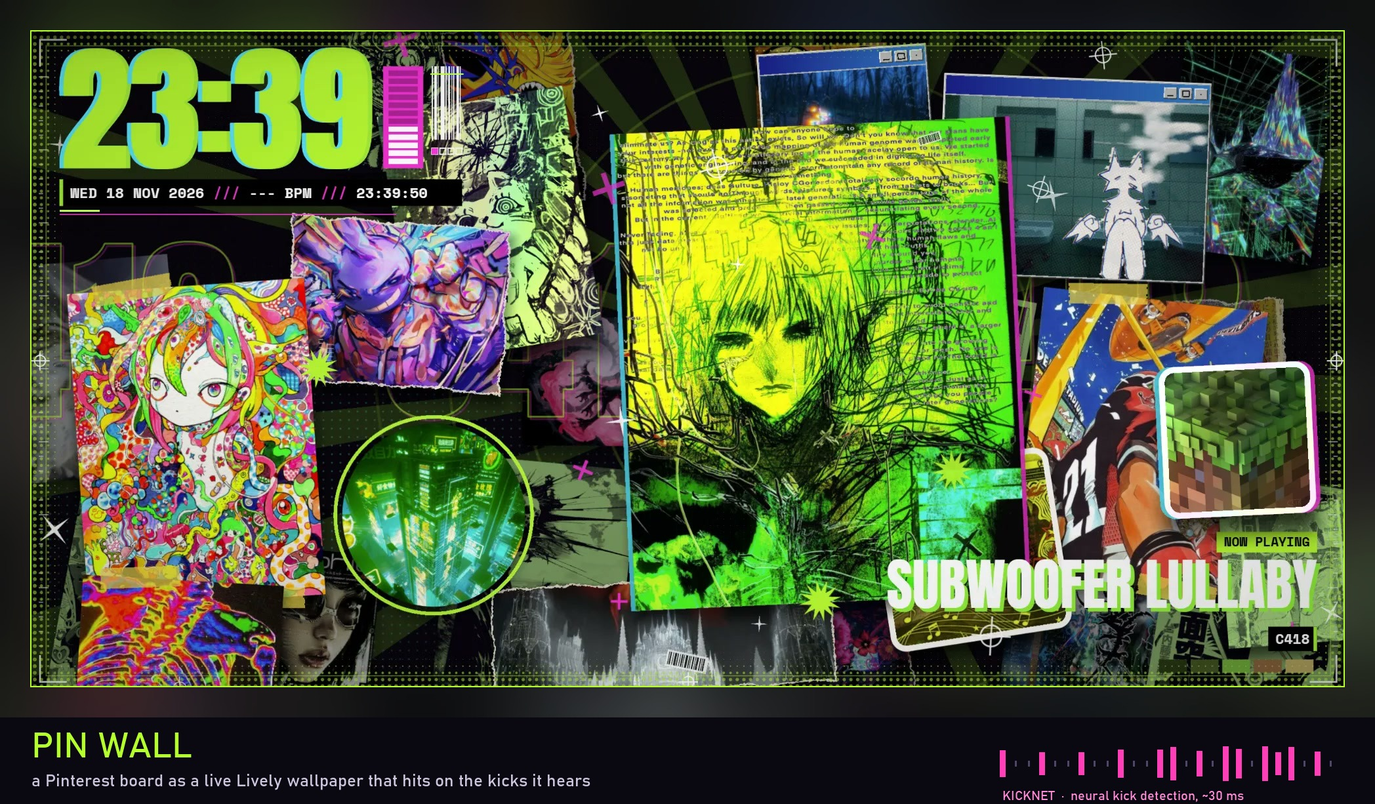
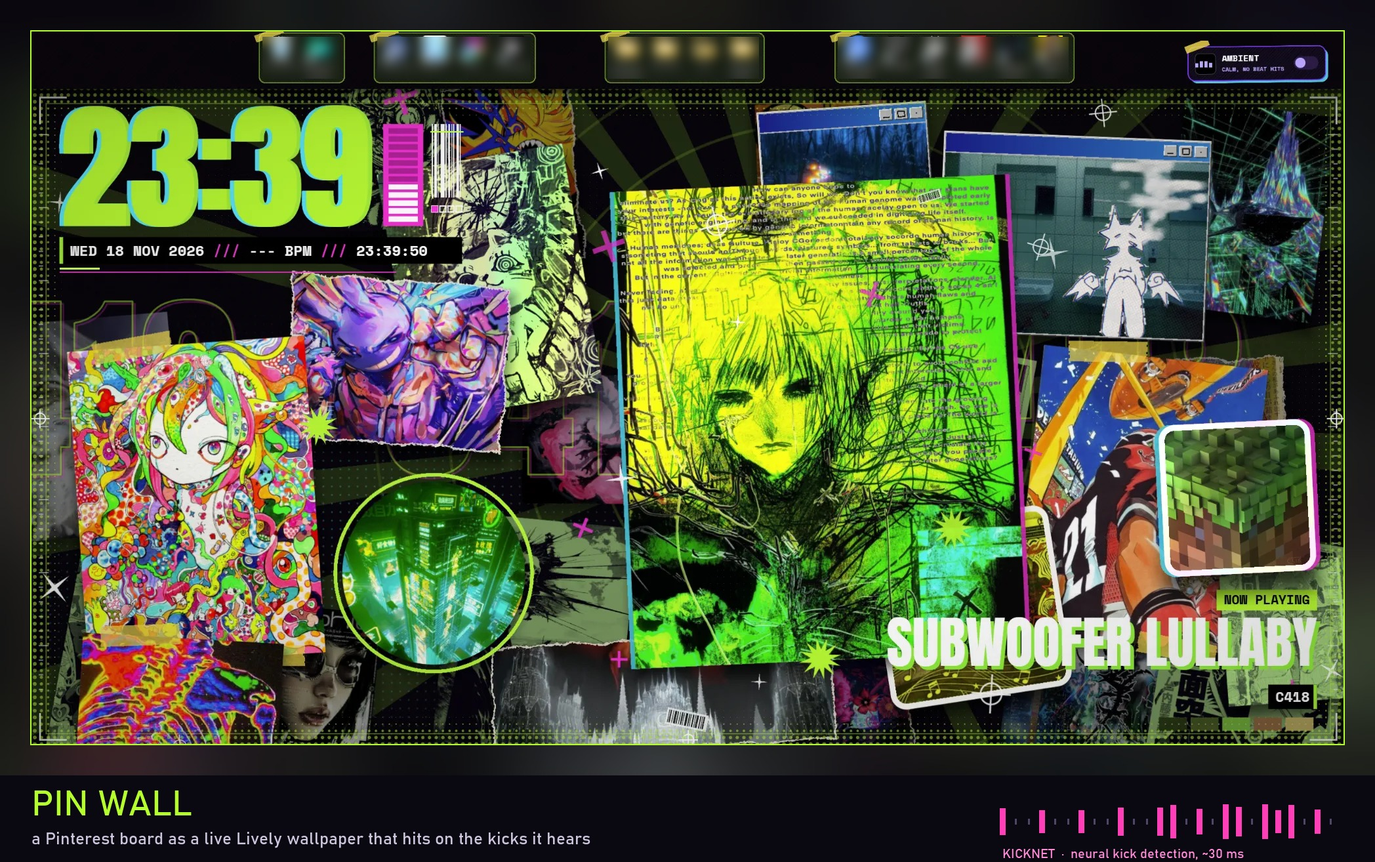
Demo: keep the top band (mode toggle), sharp WebP loop, still first
The clip and stills keep the icon shelf so the Reactive/Ambient toggle shows
(the desktop icons in the plates are blurred) and only cut the taskbar. The
README opens with the showcase still, then a 6 s animated WebP loop (full
colour, 1000 px) in place of the muddy 96-colour GIF.

diff --git a/tools/make_demo.py b/tools/make_demo.py
@@ -10,7 +10,7 @@
 3. The wall (icon shelf band and taskbar cropped off) is scaled to 1920 x 960 and a 1920 x 120 strip is drawn
    under it: the sound's waveform scrolling past a playhead, KickNet's kicks (taller = more sure), and the
    old loudness trigger's hits (red where it fired on no kick).
-4. Writes the mp4 (H.264 + AAC) and, with --gif, an 8 s looping preview for the README.
+4. Writes the mp4 (H.264 + AAC) and, with --loop, a 6 s animated WebP loop for the README.
 """
 import argparse
 import json
@@ -23,8 +23,33 @@ import numpy as np
 ROOT = os.path.dirname(os.path.dirname(os.path.abspath(__file__)))
 sys.path.insert(0, ROOT)
 sys.path.append(os.path.join(ROOT, "listener"))   # after ROOT: listener/kicknet.py must not shadow the kicknet package
-W, H_WALL, H_STRIP, FPS = 1920, 960, 120, 30
-CROP = (0, 112, 2560, 1280)          # x, y, w, h on the 2560 x 1440 capture: below the icon shelf, above the taskbar
+W, H_WALL, H_STRIP, FPS = 1920, 1044, 120, 30
+CROP = (0, 112, 2560, 1280)          # the collage only (below the icon shelf, above the taskbar): used for sync
+# what the clip shows: everything but the taskbar. The icon shelf stays because its Reactive/Ambient toggle
+# (top right) shows the mode switching (the user: "the top is important"); the desktop icons inside the
+# shelf's plates are blurred (shelf.json plate boxes), the toggle stays sharp. --icons shows them as they are.
+SHOW = (0, 0, 2560, 1392)
+
+
+def icon_blur(icons_visible):
+    """ffmpeg filter (on the 2560 x 1440 capture) that blurs the inside of each icon plate."""
+    if icons_visible:
+        return "null"
+    sh = json.load(open(os.path.join(ROOT, "wallpaper", "shelf.json"), encoding="utf-8")).get("2560x1440", {})
+    y0, y1 = sh.get("plateY", [3, 100])
+    plates = sh.get("plates", [])
+    if not plates:
+        return "null"
+    n = len(plates)
+    f = f"split={n + 1}" + "".join(f"[s{i}]" for i in range(n + 1)) + ";"
+    for i, (x0, x1) in enumerate(plates):
+        ins = 8
+        f += f"[s{i + 1}]crop={x1 - x0 - 2 * ins}:{y1 - y0 - 2 * ins}:{x0 + ins}:{y0 + ins},boxblur=14:3[b{i}];"
+    cur = "s0"
+    for i, (x0, x1) in enumerate(plates):
+        f += f"[{cur}][b{i}]overlay={x0 + 8}:{y0 + 8}[o{i}];"
+        cur = f"o{i}"
+    return f[:-len(f"[o{n - 1}];")]   # the last overlay's output becomes the chain's output
 
 
 def kicks_and_old(mono, sr):
@@ -136,7 +161,8 @@ def main():
     ap.add_argument("--raw", default=os.path.join(ROOT, "demo", "raw"))
     ap.add_argument("--out", default=os.path.join(ROOT, "demo", "pinwall-demo.mp4"))
     ap.add_argument("--skip", type=float, default=0.6, help="seconds trimmed off the start")
-    ap.add_argument("--gif", action="store_true")
+    ap.add_argument("--gif", "--loop", dest="gif", action="store_true", help="also write a 6 s animated WebP loop")
+    ap.add_argument("--icons", action="store_true", help="show the desktop icons in the shelf (blurred by default)")
     a = ap.parse_args()
     import soundfile as sf
     audio, sr = sf.read(os.path.join(a.raw, "audio.wav"), dtype="float32", always_2d=True)
@@ -162,7 +188,8 @@ def main():
     a_in = ["-i", aligned]
     cmd = (["ffmpeg", "-v", "error", "-y", "-ss", f"{a.skip:.3f}", "-i", video,
             "-f", "rawvideo", "-pix_fmt", "rgb24", "-s", f"{W}x{H_STRIP}", "-r", str(FPS), "-i", "-"] + a_in +
-           ["-filter_complex", f"[0:v]crop={w}:{h}:{x}:{y},scale={W}:{H_WALL}:flags=lanczos,fps={FPS}[wall];[wall][1:v]vstack[v];"
+           ["-filter_complex", f"[0:v]{icon_blur(a.icons)}[cl];[cl]crop={SHOW[2]}:{SHOW[3]}:{SHOW[0]}:{SHOW[1]},"
+            f"scale={W}:{H_WALL}:flags=lanczos,fps={FPS}[wall];[wall][1:v]vstack[v];"
             "[2:a]anull[a]",
             "-map", "[v]", "-map", "[a]", "-t", f"{dur:.3f}", "-c:v", "libx264", "-preset", "slow", "-crf", "18",
             "-pix_fmt", "yuv420p", "-c:a", "aac", "-b:a", "192k", "-movflags", "+faststart", a.out])
@@ -173,11 +200,12 @@ def main():
     p.stdin.close(); p.wait()
     print("wrote", a.out)
     if a.gif:
-        gif = os.path.splitext(a.out)[0] + "-preview.gif"
-        # README preview: small enough for GitHub (aim < 8 MB): 6 s, 640 px, 12 fps, 96 colours
-        vf = "fps=12,scale=640:-1:flags=lanczos,split[s0][s1];[s0]palettegen=max_colors=96:stats_mode=diff[p];[s1][p]paletteuse=dither=bayer:bayer_scale=3:diff_mode=rectangle"
-        subprocess.run(["ffmpeg", "-v", "error", "-y", "-ss", "2", "-t", "6", "-i", a.out, "-vf", vf, "-loop", "0", gif], check=True)
-        print("wrote", gif, f"({os.path.getsize(gif) // 1024} KB)")
+        # README loop: an animated WebP (full colour; a GIF's 256-colour palette looked muddy): 6 s, 1000 px,
+        # 15 fps, quality 75 (~8-9 MB; GitHub shows it like a GIF)
+        loop = os.path.splitext(a.out)[0] + "-loop.webp"
+        subprocess.run(["ffmpeg", "-v", "error", "-y", "-ss", "4", "-t", "6", "-i", a.out, "-vf", "fps=15,scale=1000:-1:flags=lanczos",
+                        "-c:v", "libwebp_anim", "-q:v", "75", "-preset", "picture", "-compression_level", "5", "-loop", "0", "-an", loop], check=True)
+        print("wrote", loop, f"({os.path.getsize(loop) // 1024} KB)")
 
 
 if __name__ == "__main__":

diff --git a/README.md b/README.md
@@ -1,6 +1,8 @@
 # Pin Wall
 
-![Pin Wall reacting to INZO - Overthinker: the KickNet strip underneath marks each kick it hears](docs/demo.gif)
+![Pin Wall: a Pinterest board as a live Lively wallpaper that hits on the kicks it hears](docs/showcase.jpg)
+
+![Pin Wall reacting to INZO - Overthinker: the KickNet strip underneath marks each kick it hears](docs/demo.webp)
 
 **[Watch the 50 s demo with sound](https://github.com/arbxe-42/pinwall-audioreactive-wallpaper/releases/download/demo-v1/pinwall-demo.mp4)**
 (INZO - Overthinker, then JPEGMAFIA - 1539 N. Calvert). The strip under the wall is KickNet live: the
@@ -130,14 +132,14 @@ retraining, `tools/build_kicknet.py` syncs it from the listener and rebuilds the
   play on a song (from a local file you own, never a stream). It switches the wall to Reactive, shows the
   desktop, hides the icons, waits for the music, records the main monitor (no mouse pointer) and the PC's
   sound, then puts everything back. Files land in `demo/raw/` (ignored by git: they hold the sound).
-- **Cut it:** `listener/.venv/Scripts/python.exe tools/make_demo.py --raw demo/raw --out demo/clip.mp4 --gif`.
-  It crops off the icon shelf and taskbar, runs KickNet and the old loudness trigger on the sound, lines
+- **Cut it:** `listener/.venv/Scripts/python.exe tools/make_demo.py --raw demo/raw --out demo/clip.mp4 --loop`.
+  It crops off the taskbar, blurs the desktop icons in the shelf (keeps the Reactive/Ambient toggle; `--icons` shows them), runs KickNet and the old loudness trigger on the sound, lines
   the sound up with the picture by matching the wall's hits to the kicks (the wall shows hits when you
   HEAR them, so a Bluetooth delay shows up as an offset), draws the strip and writes a 1920x1080 mp4
-  plus a 6 s GIF. A screen recording of your own works too: put it in a folder as `video.mp4` with its
+  plus a 6 s WebP loop (`--loop`). A screen recording of your own works too: put it in a folder as `video.mp4` with its
   sound as `audio.wav` and a `meta.json` of `{"seconds": <length - 1>}`.
 - The 2026-11-18 demo is two of the user's own screen recordings, cut this way and joined with a 0.6 s
-  crossfade; the full clip is on the `demo-v1` release, the loop in `docs/demo.gif`.
+  crossfade; the full clip is on the `demo-v1` release, the loop in `docs/demo.webp`.
 
 ## Kick Check (checking the labels by ear)
 

diff --git a/HANDOFF.md b/HANDOFF.md
@@ -254,11 +254,13 @@ sketch/, test/, MORNING.html   original look sketch, stills and captures (contai
 - `tools/record_demo.py` (clean capture: Reactive mode, Win+D, desktop icons hidden, waits for music,
   ddagrab GPU capture of monitor 0 + soundcard loopback, restores everything) and `tools/make_demo.py`
   (KickNet + old trigger on the sound, sync by matching frame-to-frame motion to kicks, strip, libx264).
-  NVENC fails on this NVIDIA driver (needs 610+), so both encode with libx264. README "Demo video" has the
+  NVENC fails on this NVIDIA driver (needs 610+), so both encode with libx264. The clip keeps the icon
+  shelf (its Reactive/Ambient toggle shows the mode; the user wants it) with the desktop icons inside the
+  plates blurred, and cuts only the taskbar: 1920 x 1044 wall + 120 px strip = 1920 x 1164. README "Demo video" has the
   commands.
 - The published demo: the user's own recordings (INZO - Overthinker first, "looks cooler with purple",
   then JPEGMAFIA - 1539 N. Calvert), measured sound offsets 385 / 340 ms. Full clip (88 MB) and web clip
-  (21 MB) on the `demo-v1` release; `docs/demo.gif` (6 s loop) at the top of the README. Work files stay
+  (21 MB) on the `demo-v1` release; `docs/showcase.jpg` then `docs/demo.webp` (6 s animated WebP loop) at the top of the README. Work files stay
   in `demo/` (git-ignored; the raw folders hold audio).
 - The songs are copyrighted and the pins are other artists' work: anything public is the user's call.
 
